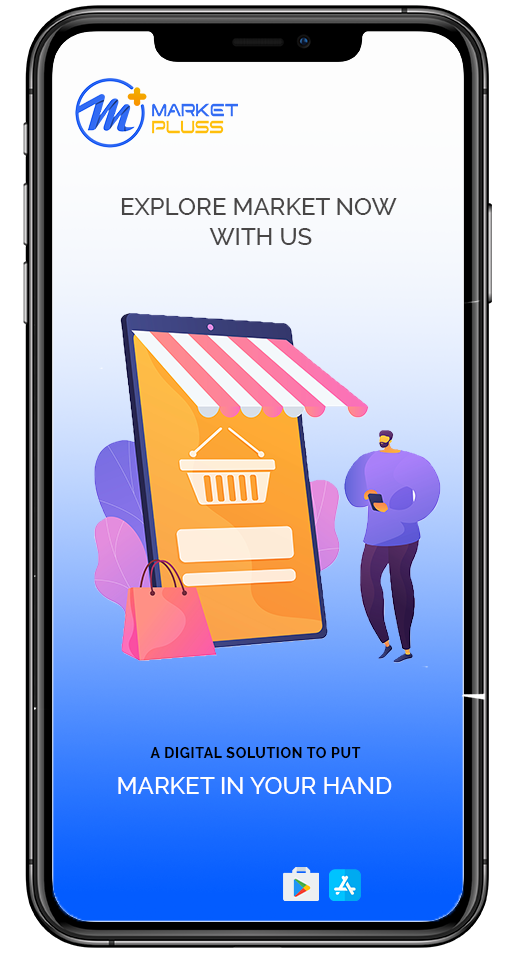
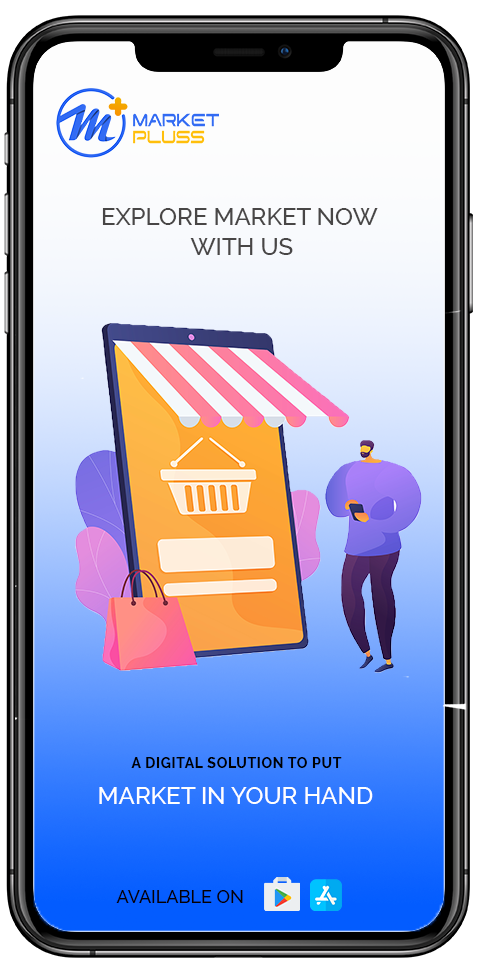
photos change

diff --git a/index.php b/index.php
@@ -52,7 +52,7 @@
           <!-- HERO IMAGE -->
           <div class="col-md-6 col-lg-4">
             <div class="hero-5-img pc-15 text-center">
-              <img class="img-fluid main-phone" src="img/w5.png" alt="hero-image">
+              <img class="img-fluid main-phone" src="img/w1.png" alt="hero-image">
             </div>
           </div>
           <!-- HERO-5 BUTTONS -->
@@ -63,11 +63,11 @@
               <div class="stores-badge">
                 <!-- Google Play -->
                 <a href="#" class="store">
-                  <img class="googleplay" src="images/googleplay.png" alt="googleplay-badge" />
+                  <img class="googleplay" src="img/googleplay.png" alt="googleplay-badge" />
                 </a>
                 <!-- AppStore -->
                 <a href="#" class="store">
-                  <img class="appstore" src="images/appstore.png" alt="appstore-badge" />
+                  <img class="appstore" src="img/appstore.png" alt="appstore-badge" />
                 </a>
               </div>
               <!-- END STORE BADGES -->
@@ -160,7 +160,7 @@
             <!-- IMAGE BLOCK -->
             <div class="col-md-5 col-lg-6 m-top">
               <div class="img-block right-column pc-15 mb-40 wow fadeInLeft">
-                <img class="img-fluid" src="img/w4.png" alt="content-image" style="width:80%;">
+                <img class="img-fluid" src="img/w5.png" alt="content-image" style="width:80%;">
               </div>
             </div>
           </div>
@@ -172,7 +172,7 @@
           <div class="row d-flex align-items-center">
             <!-- IMAGE BLOCK -->
             <div class="col-md-5 col-lg-6">
-              <div class="img-block left-column pc-25 mb-40 wow fadeInRight">
+              <div class="img-block left-column pc-25 mb-10 wow fadeInRight">
                 <img class="img-fluid" src="img/first.png" alt="content-image">
               </div>
             </div>
@@ -264,7 +264,7 @@
             <!-- IMAGE BLOCK -->
             <div class="col-md-5 col-lg-6">
               <div class="content-5-img right-column pc-20 text-center wow fadeInRight">
-                <img class="img-fluid" src="img/w6.png" alt="content-image" style="width:65%;">
+                <img class="img-fluid" src="img/w8.png" alt="content-image" style="width:65%;">
               </div>
             </div>
             <!-- TEXT BLOCK -->
@@ -849,10 +849,10 @@
               <div class="reviews-download-btn wow fadeInUp" data-wow-delay="1s">
                 <div class="stores-badge mb-10">
                   <a href="#" class="store">
-                    <img class="appstore" src="images/appstore.png" alt="appstore-badge" />
+                    <img class="appstore" src="img/appstore.png" alt="appstore-badge" />
                   </a>
                   <a href="#" class="store">
-                    <img class="googleplay" src="images/googleplay.png" alt="googleplay-badge" />
+                    <img class="googleplay" src="img/googleplay.png" alt="googleplay-badge" />
                   </a>
                 </div>
                 <span class="os-version">Available for iOS 8 and Android Devices From 5.5</span>
@@ -992,10 +992,10 @@
                 <!-- AppStore -->
                 <!-- Google Play -->
                 <a href="#" class="store">
-                  <img class="googleplay" src="images/googleplay.png" alt="googleplay-badge" />
+                  <img class="googleplay" src="img/googleplay.png" alt="googleplay-badge" />
                 </a>
                 <a href="#" class="store">
-                  <img class="appstore" src="images/appstore.png" alt="appstore-badge" />
+                  <img class="appstore" src="img/appstore.png" alt="appstore-badge" />
                 </a>
               </div>
               <!-- END STORE BADGES -->

diff --git a/footer.php b/footer.php
@@ -36,7 +36,7 @@
               </a>
             </li>
             <li>
-              <a href="" target="_blank">
+              <a href="https://www.linkedin.com/company/market-pluss/" target="_blank">
                 <svg aria-hidden="true" focusable="false" data-prefix="fab" data-icon="linkedin" class="svg-inline--fa fa-linkedin fa-w-14 linkedin" role="img" xmlns="http://www.w3.org/2000/svg" viewBox="0 0 448 512">
                   <path fill="currentColor" d="M416 32H31.9C14.3 32 0 46.5 0 64.3v383.4C0 465.5 14.3 480 31.9 480H416c17.6 0 32-14.5 32-32.3V64.3c0-17.8-14.4-32.3-32-32.3zM135.4 416H69V202.2h66.5V416zm-33.2-243c-21.3 0-38.5-17.3-38.5-38.5S80.9 96 102.2 96c21.2 0 38.5 17.3 38.5 38.5 0 21.3-17.2 38.5-38.5 38.5zm282.1 243h-66.4V312c0-24.8-.5-56.7-34.5-56.7-34.6 0-39.9 27-39.9 54.9V416h-66.4V202.2h63.7v29.2h.9c8.9-16.8 30.6-34.5 62.9-34.5 67.2 0 79.7 44.3 79.7 101.9V416z">
                   </path>

diff --git a/header.php b/header.php
@@ -3,7 +3,7 @@
     <!-- MOBILE HEADER -->
     <div class="wsmobileheader clearfix">
       <span class="smllogo">
-        <a href="/index.php">
+        <a href="index.php">
           <img src="logos/Asset 3112.png" alt="mobile-logo" />
         </a>
       </span>
@@ -14,8 +14,8 @@
       <div class="wsmainwp clearfix">
         <!-- HEADER LOGO -->
         <div class="desktoplogo">
-          <a href="/index.php">
-            <img src="logos/Asset 3112.png" alt="header-logo">
+          <a href="index.php">
+            <img src="logos/Asset 3112-1.png" alt="header-logo">
           </a>
         </div>
         <!-- MAIN MENU -->

diff --git a/partner-with-us.php b/partner-with-us.php
@@ -112,14 +112,6 @@
         ============================================= -->
     <div id="about-2" class="wide-90 about-section division" style="padding-top:80px;">
       <div class="container">
-        <!-- IMAGE BLOCK -->
-        <!-- <div class="row">
-          <div class="col-md-12">
-            <div class="img-block mb-70">
-              <img class="img-fluid" src="images/about-2-img.jpg" alt="content-image" style="border-radius:10px;">
-            </div>
-          </div>
-        </div> -->
         <!-- TEXT BLOCK -->
         <div class="about-2-txt">
           <div class="row">

diff --git a/about-us.php b/about-us.php
@@ -75,7 +75,7 @@
         <div class="row">
           <div class="col-md-12">
             <div class="img-block mb-70">
-              <img class="img-fluid" src="images/about-2-img.jpg" alt="content-image" style="border-radius:10px;">
+              <img class="img-fluid" src="img/about-2-img.jpg" alt="content-image" style="border-radius:10px;">
             </div>
           </div>
         </div>
